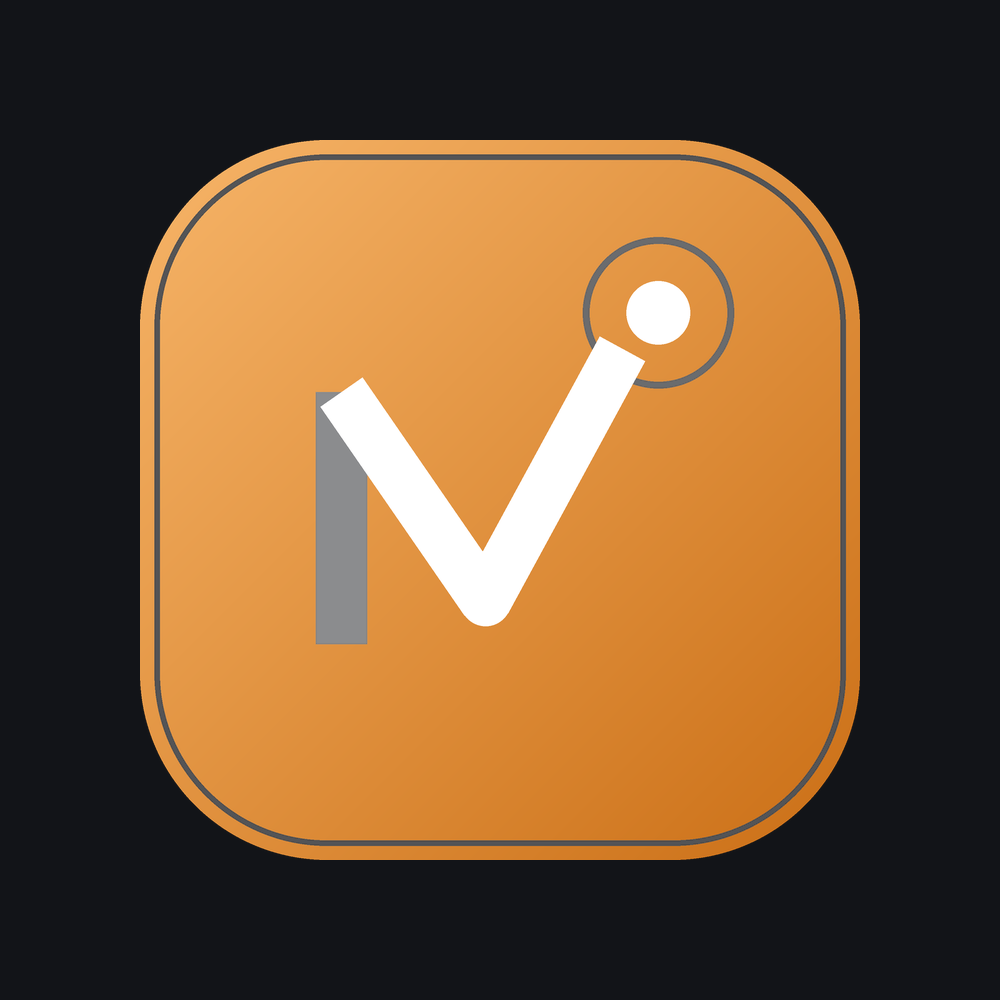
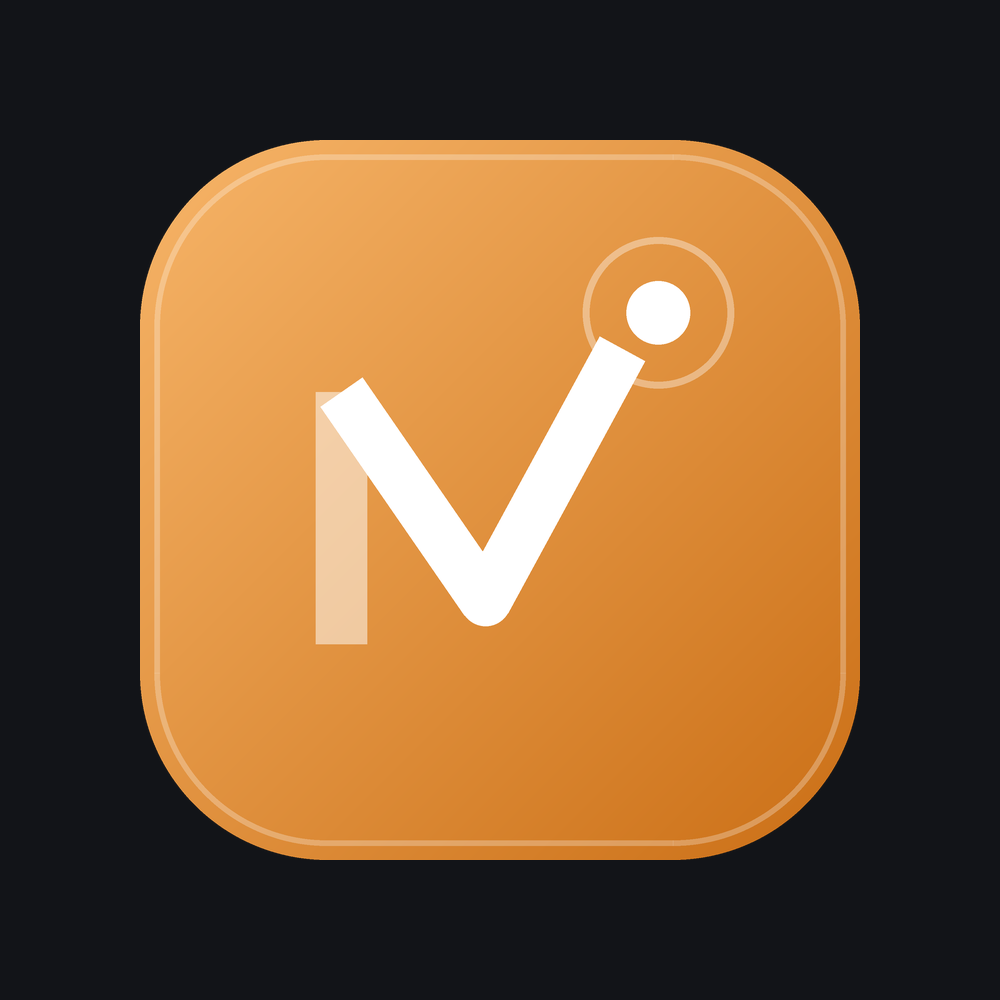
Fix amber_tile: detail strokes now blend against the gradient, not whatever they're later pasted onto
Root cause of the banner/profile-pic mark mismatch the user flagged:
Pillow only alpha-blends a draw call against existing content when
the target has no alpha channel of its own. amber_tile() drew its
semi-transparent white details directly onto the RGBA tile, so they
never blended against the amber gradient at all — they stayed literally
half-transparent pixels with nothing underneath, and only picked up a
visible color later, from whatever background the finished tile
eventually got pasted onto. Gray on the cover's dark canvas, cream on
make_pfp's amber canvas (which draws onto a plain RGB image and so
blends correctly). Same mark, two different results, purely by
accident of which background happened to be behind it.

Fix: draw all detail strokes onto the RGB gradient layer first (where
blending actually happens), then cut the rounded-rect shape out of the
finished, already-correct artwork as the last step, instead of drawing
into a hole and hoping the paste fills it in with the right color.
Applied the same restructure to dark_tile(). Verified by pixel-
sampling the "N" leg in both the banner tile and avatar-pfp-1080.png:
was (144,142,141) gray vs (250,235,219) cream — now (240,203,163) vs
(250,235,219), same warm-cream family, confirmed visually side by side.

diff --git a/tools/make_social.py b/tools/make_social.py
@@ -76,17 +76,25 @@ def dither(img, amount=4, seed=1):
 def amber_tile(size, radius, ss=3):
     """The rounded-square icon with the diagonal amber gradient + radar check."""
     s = size * ss
-    tile = Image.new("RGBA", (s, s), (0, 0, 0, 0))
     grad = Image.new("RGB", (s, s))
     gd = grad.load()
     for y in range(s):
         for x in range(s):
             t = (x / s * 0.5 + y / s * 0.5)
             gd[x, y] = _lerp(AMBER_L, AMBER_D, min(1, t))
-    mask = Image.new("L", (s, s), 0)
-    ImageDraw.Draw(mask).rounded_rectangle([0, 0, s - 1, s - 1], radius=radius * ss, fill=255)
-    tile.paste(grad, (0, 0), mask)
-    d = ImageDraw.Draw(tile)
+    # The detail strokes below are semi-transparent white and MUST be drawn
+    # onto this RGB gradient now, not onto the RGBA tile after pasting.
+    # Pillow only actually blends a semi-transparent fill against what's
+    # already there when the target has no alpha channel of its own — draw
+    # the identical (255,255,255,130) onto an RGBA image instead and it just
+    # SETS the pixel to that literal (mostly-transparent) value, with no
+    # amber underneath it at all. That "transparent" pixel only picks up a
+    # visible color later, from whatever this tile eventually gets pasted
+    # onto — gray on the cover's dark background, cream here on amber. Same
+    # numbers, two different-looking marks. Blending here first, against the
+    # gradient that's actually supposed to show through, fixes it for every
+    # future use of this tile regardless of what it's placed on.
+    d = ImageDraw.Draw(grad, "RGBA")
     d.rounded_rectangle([s*0.02, s*0.02, s - s*0.02, s - s*0.02],
                         radius=radius * ss - s*0.02, outline=(255, 255, 255, 70),
                         width=max(2, int(s*0.008)))
@@ -99,6 +107,11 @@ def amber_tile(size, radius, ss=3):
            fill=(255, 255, 255, 255), width=lw, joint="curve")
     d.ellipse([cx - rr * 0.42, cy - rr * 0.42, cx + rr * 0.42, cy + rr * 0.42],
               fill=(255, 255, 255, 255))
+    # NOW cut the rounded-rect shape out of the fully-blended artwork.
+    tile = Image.new("RGBA", (s, s), (0, 0, 0, 0))
+    mask = Image.new("L", (s, s), 0)
+    ImageDraw.Draw(mask).rounded_rectangle([0, 0, s - 1, s - 1], radius=radius * ss, fill=255)
+    tile.paste(grad, (0, 0), mask)
     return tile.resize((size, size), Image.LANCZOS)
 
 
@@ -110,7 +123,6 @@ def dark_tile(size, radius, ss=3):
     loud, disconnected block rather than part of the same brand system.
     """
     s = size * ss
-    tile = Image.new("RGBA", (s, s), (0, 0, 0, 0))
     # a faint amber glow lower-right, echoing the cover art's glow instead of
     # sitting perfectly flat
     grad = Image.new("RGB", (s, s), BG)
@@ -121,10 +133,8 @@ def dark_tile(size, radius, ss=3):
             dist = (((x - gx) / gr) ** 2 + ((y - gy) / gr) ** 2) ** 0.5
             if dist < 1:
                 gd[x, y] = _lerp(BG, AMBER_D, (1 - dist) * 0.35)
-    mask = Image.new("L", (s, s), 0)
-    ImageDraw.Draw(mask).rounded_rectangle([0, 0, s - 1, s - 1], radius=radius * ss, fill=255)
-    tile.paste(grad, (0, 0), mask)
-    d = ImageDraw.Draw(tile)
+    # detail strokes blended onto the RGB gradient — see amber_tile's comment
+    d = ImageDraw.Draw(grad, "RGBA")
     d.rounded_rectangle([s*0.02, s*0.02, s - s*0.02, s - s*0.02],
                         radius=radius * ss - s*0.02, outline=(*AMBER, 90),
                         width=max(2, int(s*0.008)))
@@ -137,6 +147,10 @@ def dark_tile(size, radius, ss=3):
            fill=(*AMBER_L, 255), width=lw, joint="curve")
     d.ellipse([cx - rr * 0.42, cy - rr * 0.42, cx + rr * 0.42, cy + rr * 0.42],
               fill=(*AMBER_L, 255))
+    tile = Image.new("RGBA", (s, s), (0, 0, 0, 0))
+    mask = Image.new("L", (s, s), 0)
+    ImageDraw.Draw(mask).rounded_rectangle([0, 0, s - 1, s - 1], radius=radius * ss, fill=255)
+    tile.paste(grad, (0, 0), mask)
     return tile.resize((size, size), Image.LANCZOS)
 
 

diff --git a/brand/BRAND_KIT.md b/brand/BRAND_KIT.md
@@ -75,7 +75,7 @@ the domain. Use it wherever dots are allowed; where they aren't, use `nabblyco`
 - **About:**
   > Nabbly watches every freelance job board and hiring community around the clock and puts new gigs in one place the moment they post, across 25+ fields, from design and writing to video, dev and marketing.
   >
-  > Freelancing is enough of a hustle without refreshing ten boards all day. The person who answers a good post first usually gets the work, so Nabbly sorts each gig by skill, budget and urgency, matches it to what you do, and alerts you the moment something fits. Pro even drafts the first reply from the actual post.
+  > Freelancing is enough of a hustle without refreshing ten boards all day. The person who answers a good post first usually gets the work, so Nabbly sorts each gig by skill, budget and urgency, matches it to what you do, and alerts you the moment something fits. Pro users get even more: a first-reply draft written straight from the actual post, ready to send.
   >
   > Browse the whole board free, no account needed → nabbly.co
 - **Website:** `https://nabbly.co`
